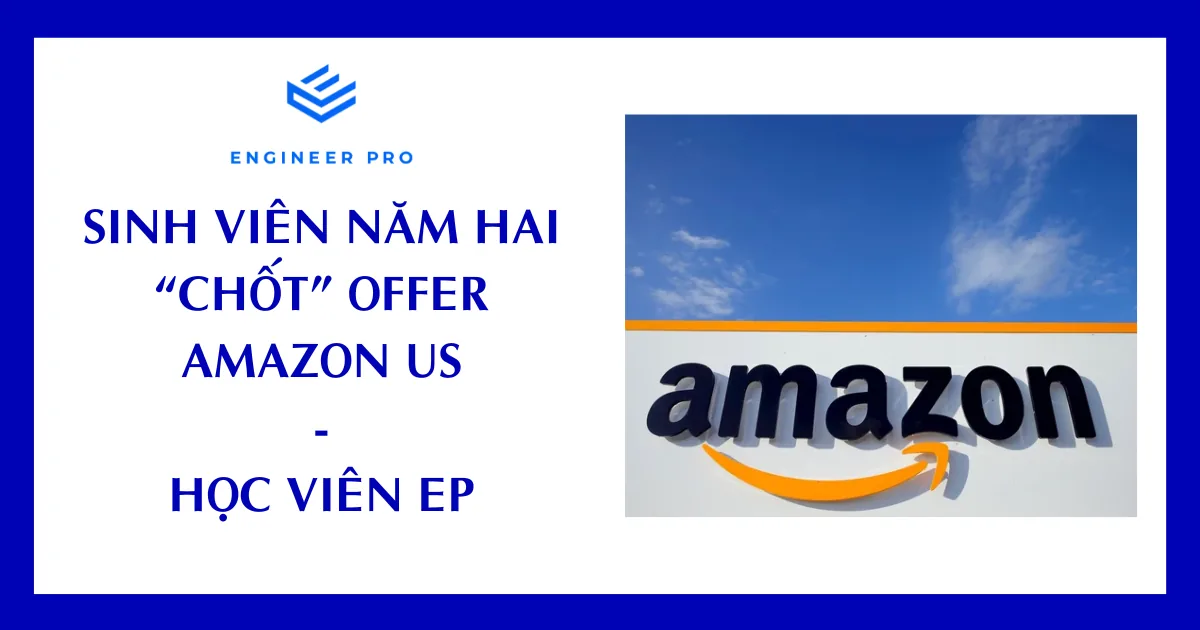
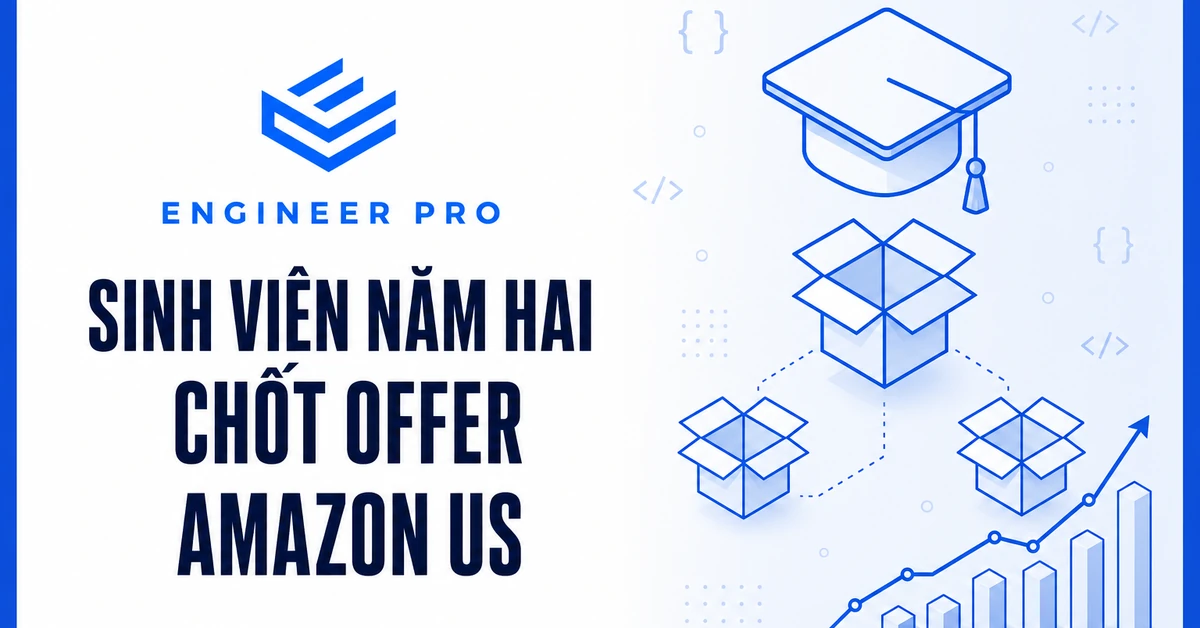
6 more story covers: replace crawled imagery with original artwork
Same treatment as anh-quang-naver — regenerate clean editorial
covers (1200x628 webp, FB-spec) for stories whose crawled banners
included real-world building photos / 3rd-party brand imagery we
don't have rights to:

  • anh-thanh-tiktok-amazon
  • anh-dung-amazon
  • ban-anh-amazon
  • anh-trung-meta-amazon
  • ban-hung-grab
  • anh-duy-naver

Each new cover: white canvas + thick navy border, EngineerPro logo
+ Vietnamese title on the left, flat-vector tech motifs on the right
(servers, packages, social graph, magnifier, map pin, growth chart —
tuned per company context). No photographs, no third-party logos.
Same filenames so prerendered HTML + og:image absolute URLs keep
working without touching stories-data.js.

diff --git a/docs/stories/anh-dung-amazon/index.html b/docs/stories/anh-dung-amazon/index.html
@@ -35,7 +35,7 @@
     <meta property="og:image:secure_url" content="https://engineerprogurus.com/assets/img/stories/anh-dung-amazon-img1.webp" />
     <meta property="og:image:type" content="image/webp" />
     <meta property="og:image:width" content="1200" />
-    <meta property="og:image:height" content="630" />
+    <meta property="og:image:height" content="628" />
     <meta property="og:image:alt" content="Không gì là không thể – Chinh phục vị trí Intern tại Amazon của anh Dũng - du học sinh tại Mỹ" />
     <meta property="og:locale" content="vi_VN" />
 

diff --git a/docs/stories/anh-thanh-tiktok-amazon/index.html b/docs/stories/anh-thanh-tiktok-amazon/index.html
@@ -35,7 +35,7 @@
     <meta property="og:image:secure_url" content="https://engineerprogurus.com/assets/img/stories/anh-thanh-tiktok-amazon.webp" />
     <meta property="og:image:type" content="image/webp" />
     <meta property="og:image:width" content="1200" />
-    <meta property="og:image:height" content="630" />
+    <meta property="og:image:height" content="628" />
     <meta property="og:image:alt" content="BÍ QUYẾT THÀNH CÔNG KHI PHỎNG VẤN TIK TOK &amp; AMAZON CỦA HỌC VIÊN ENGINEER PRO" />
     <meta property="og:locale" content="vi_VN" />
 

diff --git a/docs/stories/ban-hung-grab/index.html b/docs/stories/ban-hung-grab/index.html
@@ -35,7 +35,7 @@
     <meta property="og:image:secure_url" content="https://engineerprogurus.com/assets/img/stories/ban-hung-grab-img1.webp" />
     <meta property="og:image:type" content="image/webp" />
     <meta property="og:image:width" content="1200" />
-    <meta property="og:image:height" content="630" />
+    <meta property="og:image:height" content="628" />
     <meta property="og:image:alt" content="HÀNH TRÌNH HỌC TẬP VÀ THỰC TẬP TẠI GRAB CỦA HỌC VIÊN ENGINEER PRO" />
     <meta property="og:locale" content="vi_VN" />
 

diff --git a/docs/stories/anh-trung-meta-amazon/index.html b/docs/stories/anh-trung-meta-amazon/index.html
@@ -35,7 +35,7 @@
     <meta property="og:image:secure_url" content="https://engineerprogurus.com/assets/img/stories/anh-trung-meta-amazon-img1.webp" />
     <meta property="og:image:type" content="image/webp" />
     <meta property="og:image:width" content="1200" />
-    <meta property="og:image:height" content="630" />
+    <meta property="og:image:height" content="628" />
     <meta property="og:image:alt" content="CHINH PHỤC AMAZON &amp; META NGAY NĂM CUỐI ĐẠI HỌC MỸ" />
     <meta property="og:locale" content="vi_VN" />
 

diff --git a/docs/stories/anh-duy-naver/index.html b/docs/stories/anh-duy-naver/index.html
@@ -35,7 +35,7 @@
     <meta property="og:image:secure_url" content="https://engineerprogurus.com/assets/img/stories/anh-duy-naver-img1.webp" />
     <meta property="og:image:type" content="image/webp" />
     <meta property="og:image:width" content="1200" />
-    <meta property="og:image:height" content="630" />
+    <meta property="og:image:height" content="628" />
     <meta property="og:image:alt" content="Phỏng vấn thành công công ty Never sau khóa học Engineer Pro" />
     <meta property="og:locale" content="vi_VN" />
 

diff --git a/docs/stories/ban-anh-amazon/index.html b/docs/stories/ban-anh-amazon/index.html
@@ -35,7 +35,7 @@
     <meta property="og:image:secure_url" content="https://engineerprogurus.com/assets/img/stories/ban-anh-amazon-img1.webp" />
     <meta property="og:image:type" content="image/webp" />
     <meta property="og:image:width" content="1200" />
-    <meta property="og:image:height" content="630" />
+    <meta property="og:image:height" content="628" />
     <meta property="og:image:alt" content="Sinh Viên Năm Hai “Chốt” Offer Amazon US" />
     <meta property="og:locale" content="vi_VN" />
 
